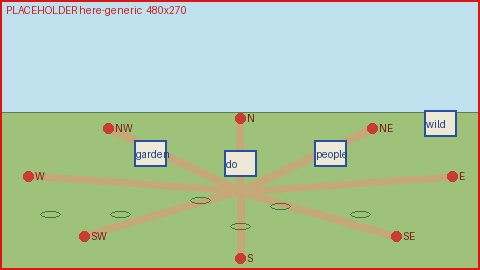
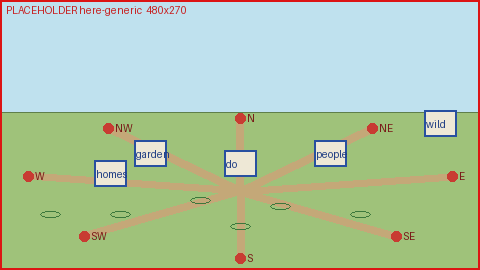
Homes spot on villages/plain places, tests, red-border placeholder pictures, todo

Changed region(s): [[0.1875, 0.5926, 0.2812, 0.7111]]

diff --git a/tests/here.php b/tests/here.php
@@ -45,6 +45,16 @@ if ($withDb && ($argv[2] ?? '') === 'cli') {   // (php tests/here.php GAME cli .
         }
     }
     if ($cmd === 'clearenc') { q("UPDATE expeditions SET encounter = NULL WHERE status = 'active' AND user_id = (SELECT id FROM users WHERE username = 'sprout')"); echo "ok\n"; }
+    if ($cmd === 'athome') {   // put the gnome where most villagers live; print "<npc id> <item id>"
+        $loc = (int)q_val("SELECT home_location_id FROM npcs WHERE active = 1 AND traveller IS NULL AND home_location_id IS NOT NULL GROUP BY home_location_id ORDER BY COUNT(*) DESC, home_location_id LIMIT 1");
+        $uidx = (int)q_val("SELECT id FROM users WHERE username = 'sprout'");
+        q("UPDATE expeditions SET status = 'done' WHERE user_id = ?", [$uidx]); q('UPDATE users SET location_id = ? WHERE id = ?', [$loc, $uidx]);
+        $nid = (int)q_val('SELECT id FROM npcs WHERE active = 1 AND traveller IS NULL AND home_location_id = ? ORDER BY id LIMIT 1', [$loc]);
+        $item = (int)q_val("SELECT id FROM items WHERE tradable = 1 AND category NOT IN ('tool','broken') ORDER BY id LIMIT 1");
+        require_once $game . '/includes/items.php'; give_item($uidx, $item, 2);
+        q('UPDATE npc_friends SET last_gift = NULL WHERE user_id = ?', [$uidx]);
+        echo "$nid $item\n";
+    }
     if ($cmd === 'active') { echo (int)q_val("SELECT COUNT(*) FROM expeditions WHERE status = 'active' AND user_id = (SELECT id FROM users WHERE username = 'sprout')") . "\n"; }
     if ($cmd === 'walk') {
         $u = q_one("SELECT * FROM users WHERE username = 'sprout'");
@@ -253,7 +263,7 @@ if ($withDb) {
     $out = hub_scene('generic', $hot, [], ['layout' => $L, 'alt' => 'x', 'open' => 'a']);
     ok('label is escaped', !str_contains($out, 'Door <b>') && str_contains($out, 'Door &lt;b&gt;'));
     ok('?o=<id> opens that card (no JS)', str_contains($out, 'id="hubpop-a"') && str_contains($out, 'hubpop-a" aria-labelledby="hubpop-a-t" open'));
-    $out2 = hub_scene('generic', $hot, [], ['layout' => $L, 'alt' => 'x']);
+    $out2 = hub_scene('zz-noart', $hot, [], ['layout' => $L, 'alt' => 'x']);
     ok('closed by default', !str_contains($out2, ' open>') && !str_contains($out2, 'aria-labelledby="hubpop-a-t" open'));
     ok('no art file: drawn sky and ground', str_contains($out2, 'class="sky"') && str_contains($out2, 'class="ground"'));
     $big = $L; $big['w'] = 960; $big['h'] = 540;
@@ -352,6 +362,46 @@ if ($withDb) {
     q("UPDATE expeditions SET status = 'done' WHERE user_id = ?", [$u['id']]);
     sset('gnav_tiles', '0'); sset('gnav_on', '0');
 
+    echo "== residential and door\n";
+    require_once $game . '/includes/residential.php';
+    $homeLoc = (int)q_val("SELECT home_location_id FROM npcs WHERE active = 1 AND traveller IS NULL AND home_location_id IS NOT NULL GROUP BY home_location_id ORDER BY COUNT(*) DESC, home_location_id LIMIT 1");
+    $homes = npcs_homed_at($homeLoc);
+    ok('the place with most villagers has homes', count($homes) >= 2, "loc $homeLoc");
+    ok('homes are in id order', array_column($homes, 'id') === (function ($a) { sort($a); return $a; })(array_column($homes, 'id')));
+    ok('travellers and inactive villagers have no house', !array_filter($homes, fn($n) => $n['traveller'] !== null || (int)$n['active'] !== 1));
+    $firstIds = array_column($homes, 'id');
+    q("DELETE FROM npcs WHERE slug = 'zz-newcomer'");
+    $newId = db_insert('npcs', ['slug' => 'zz-newcomer', 'name' => 'Zed Newcomer', 'species' => 'frog', 'personality' => 'Shy', 'home_location_id' => $homeLoc, 'active' => 1]);
+    $after = array_column(npcs_homed_at($homeLoc), 'id');
+    ok('a new villager takes the next slot, nobody else moves', array_slice($after, 0, count($firstIds)) === $firstIds && end($after) === $newId);
+    q('DELETE FROM npcs WHERE id = ?', [$newId]);
+    ok('templates: 3 houses -> 4-slot street, 6 -> 6, 7 -> 8, 30 -> 8 per page', resid_template(3) === ['resid-4', 4] && resid_template(6) === ['resid-6', 6] && resid_template(7) === ['resid-8', 8] && resid_template(30)[1] === 8);
+    $u = put($homeLoc);
+    [$rh, $pages] = resid_view($u, player_node($u), 1);
+    ok('the street renders one house per villager (page 1)', substr_count($rh, 'id="hs-h') === min(count($homes), resid_template(count($homes))[1]));
+    ok('an unmet villager shows no name on the street', !str_contains($rh, (string)$homes[0]['name']) || resid_met((int)$u['id'], (int)$homes[0]['id']));
+    $n1 = $homes[0];
+    ok('door_allowed: at the home place', door_allowed($u, $n1));
+    $other = (int)q_val("SELECT id FROM locations WHERE id <> ? ORDER BY id LIMIT 1", [$homeLoc]);
+    $uo = put($other);
+    ok('door_allowed: not from another place', !door_allowed($uo, $n1));
+    ok('gift at a door refused from elsewhere', npc_gift_door($uo, (int)$n1['id'], 1)[0] === false);
+    // lights: force home / away by schedule-free hours: an npc with no schedule rows is home all day
+    q('DELETE FROM npc_schedules WHERE npc_id = ?', [$n1['id']]);
+    $u = put($homeLoc);
+    ok('no plans = at home: window lit, Knock links to the visit', str_contains(door_view($u, $n1, 1), 'villagers.php?id=' . $n1['id'] . '&amp;home=1'));
+    q('INSERT INTO npc_schedules (npc_id, days, start_hour, end_hour, activity, location_id) VALUES (?, ?, 0, 0, ?, ?)', [$n1['id'], 'all', 'visiting', $homeLoc]);
+    $dv = door_view($u, $n1, 1, 'knock');
+    ok('out all day: dark window, Knock shows the message and no visit link', str_contains($dv, 'No light on') && !str_contains($dv, 'villagers.php?id=' . $n1['id'] . '&amp;home=1'), substr(strip_tags($dv), 0, 0));
+    q("UPDATE users SET coins = coins WHERE id = ?", [$u['id']]);
+    $item = (int)q_val("SELECT id FROM items WHERE tradable = 1 AND category NOT IN ('tool','broken') ORDER BY id LIMIT 1");
+    give_item((int)$u['id'], $item, 3);
+    q('DELETE FROM npc_friends WHERE user_id = ? AND npc_id = ?', [$u['id'], $n1['id']]);
+    [$g1, $gm1] = npc_gift_door($u, (int)$n1['id'], $item);
+    ok('a gift can be left at the door of an unmet, absent villager', $g1 && str_contains($gm1, 'door'), $gm1);
+    [$g2, $gm2] = npc_gift_door($u, (int)$n1['id'], $item);
+    ok('only once a day (shared with handed gifts)', !$g2, $gm2);
+    ok('friendship went up, but only by the door share', (int)q_val('SELECT points FROM npc_friends WHERE user_id = ? AND npc_id = ?', [$u['id'], $n1['id']]) > 0);
     echo "== flag helpers\n";
     ok('gnav_start_here is off with the flag off', !gnav_start_here(me()));
     sset('gnav_on', '1');

diff --git a/game/includes/here_view.php b/game/includes/here_view.php
@@ -17,6 +17,7 @@ require_once __DIR__ . '/maps.php';
 require_once __DIR__ . '/npc_life.php';
 require_once __DIR__ . '/items.php';
 require_once __DIR__ . '/place_ui.php';   // go_level_chip
+require_once __DIR__ . '/residential.php';   // npcs_homed_at
 
 /**
  * Energy to step onto a path from a place. THE one place that works this out: the Here exit chips show it, and for the timer walk it is
@@ -162,11 +163,12 @@ function here_spots(array $u, array $node, array $L, string $back, string $kind)
         }
         $add('shops', 'Shops', '🏪', url('town.php?view=shops'));
         // 'homes' (Residential) comes in a later release; the spot stays hidden until residential.php exists
-        if (is_file(APP_ROOT . '/residential.php')) $add('homes', 'Homes', '🏠', url('residential.php?loc=' . (int)$node['id']));
-    } elseif ($kind === 'village' || $kind === 'stop') {
+        if (is_file(APP_ROOT . '/residential.php') && npcs_homed_at((int)$node['id'])) $add('homes', 'Homes', '🏠', url('residential.php?loc=' . (int)$node['id']));
+    } elseif ($kind === 'village' || $kind === 'stop' || $kind === '') {   // '' = a plain place: the generic picture
         $add('do', 'Do here', '🎯', url('town.php'));
         $add('people', 'Villagers', '👥', url('town.php?t=folk'));
         $add('stop', 'Rest stop', '🪧', url('town.php?t=stop'));
+        if (is_file(APP_ROOT . '/residential.php') && npcs_homed_at((int)$node['id'])) $add('homes', 'Homes', '🏠', url('residential.php?loc=' . (int)$node['id']));
         if ((int)($u['home_village_id'] ?? 0) === (int)$node['id']) $add('garden', 'Your garden', '🌱', url('garden.php'));
     } elseif (in_array($kind, ['haven', 'wonder', 'delve', 'lair'], true)) {
         $lm = landmark_at((int)$node['id']);

diff --git a/claude/todo.md b/claude/todo.md
@@ -2,9 +2,9 @@
 
 ## NOW (nav A + 2d + editor, 2026-11-04): GRAPHICAL NAVIGATION. 2.5.01 zip (release A only) built and sent for testing; later work (2d Trail tiles, layout editor) is committed on branch `claude/new-session-c6u77m` but NOT in any zip yet. Next zip would be 2.5.02 (bump `APP_VERSION`, CHANGELOG, manifest, `tests/build_update.sh 2.5.02 2.5.01`).
 - **In 2.5.01 (release A, flag `gnav_on`, default 0):** Phases 0, 1, 2a, 2b, 2c. Here page `here.php` + `includes/here_view.php`, scene engine `includes/hub_scene.php` + `assets/hubscene.js`, layouts `includes/data/here_layouts.json` (12), `here_layout.php` helpers, `here_schema.php` (settings, `here_layouts`, `users.start_page`, `gnav_on()`), login/welcome-back to Here + Account "Start on", bottom bar/menu, World + Here Fast travel/GPS dialogs, `route_enter_cost()` (preview never rolls the staff die), `landmark.php` back to Here, `tools/gen_here_placeholders.py`, tests `tests/here.php` + `here.sh` (in CI list).
-- **Built after 2.5.01, not in a zip:** (1) 2d Trail tiles, flag `gnav_tiles` (needs `gnav_on`): `includes/trail_tiles.php`, hooks in `adventure.php` and `start_expedition` (1 energy to step on, free Continue, event rolled once with compare-and-swap, Turn back free, per-walk decision so a walk in progress keeps its mode). (2) Admin layout editor `admin/here_layout.php` + `assets/hereedit.js`, `tools/lint_here.php`. (3) `claude/art-brief-here.md`. (4) `hubscene.js` loads on every page when `gnav_on`. Tests cover all of it.
+- **Built after 2.5.01, not in a zip:** (0) Phase 3 Residential + Door: `residential.php`, `door.php`, `includes/residential.php` (`npcs_homed_at`, street pages of 4/6/8, lit/dark windows via `npc_now()['home']`, Knock only when home, `npc_gift_door()` = `npc_gift($u,$id,$item,true)`: no `npc_here`, half friendship, once a day shared with handed gifts); 'Homes' spot on Here when a place has homes; tests in `here.php`/`here.sh`. Red-bordered PLACEHOLDER pictures (17 PNGs: `scenes/here-*.png`, `resid-4/6/8.png`, `door-<homekey>.png` x6) from `tools/gen_here_placeholders.py` are in `game/assets/img/scenes`: replace each with real art of the same name and size (`php tools/lint_here.php` checks sizes), listed here so none ships by accident. (1) 2d Trail tiles, flag `gnav_tiles` (needs `gnav_on`): `includes/trail_tiles.php`, hooks in `adventure.php` and `start_expedition` (1 energy to step on, free Continue, event rolled once with compare-and-swap, Turn back free, per-walk decision so a walk in progress keeps its mode). (2) Admin layout editor `admin/here_layout.php` + `assets/hereedit.js`, `tools/lint_here.php`. (3) `claude/art-brief-here.md`. (4) `hubscene.js` loads on every page when `gnav_on`. Tests cover all of it.
 - **Tests:** `here` green. 32-suite regression ran with flags off and with both defaulted on: only `redirects`, `roads097`, `stops100` fail (same on the base commit) and `treks` is a random-threshold flake; with tiles defaulted on `roads097` also fails "arrival in 3 minutes" (expects timer walk, expected). Not run: MySQL, `upgrade_check.sh`, full CI, real phone.
-- **NOT BUILT, still to do:** Gather and Wander off the Trail while on a tile section (plan 2d-d; `explore_start` and the World page both refuse during a walk, needs a design); the in-between event as a `<dialog>` popover (today it is the existing encounter card on the page); HP/energy strip and slim footer from plan 2d-e; GPS hand-off to the next "Head into" popover (2d-f); `balance_sim.php` run for the energy change; Phase 3 Residential + Door (`residential.php`, `door.php`, `npc_gift_door()`; the 'homes' spot appears once `residential.php` exists); Phase 4 Crafting workshop; Phase 5 Treehouse / Pal Yard; Phase 6 leftovers: `admin/artguide.php` and `tests/build_guide*.py` catalogue entries, README Key systems, `DESIGN.md` (Here/door pictures); Phase 7 release mechanics.
+- **NOT BUILT, still to do:** Gather and Wander off the Trail while on a tile section (plan 2d-d; `explore_start` and the World page both refuse during a walk, needs a design); the in-between event as a `<dialog>` popover (today it is the existing encounter card on the page); HP/energy strip and slim footer from plan 2d-e; GPS hand-off to the next "Head into" popover (2d-f); `balance_sim.php` run for the energy change; Phase 4 Crafting workshop; Phase 5 Treehouse / Pal Yard; Phase 6 leftovers: `admin/artguide.php` and `tests/build_guide*.py` catalogue entries, README Key systems, `DESIGN.md` (Here/door pictures); Phase 7 release mechanics.
 - **Known risks / notes:** section maps come from a seed + `trail_map_make()`: changing that function changes walks in progress (leave it, or version the seed). Orphan `walk_scene` rows are purged on the next walk start. `tests/tour.sh` copy untouched (no step names Here). Plan file `claude/plan-graphical-nav.md` still says "not built, plan only": update its status line. No real art: engine draws a sky and ground when `scenes/here-<key>.png` is missing; 151 villager sprites do not exist (mini/bust/emoji fallback). MySQL path for `here_layouts` / `users.start_page` unchecked (`here_ensure_schema()` also adds the column on first Account save).
 - **Josh checks on the phone (412 px, light + dark):** `gnav_on` = 1: login lands on Here; tap each hotspot (card opens/closes with Esc, outside tap, ✕; a tap never spends anything); Set off from an exit card; haven Rest/Stay and wonder/delve cards come back to Here; Fast travel and GPS on Here and World; Account → Start on → Home; bottom bar Here; keyboard pass; no horizontal scroll. After the next zip, `gnav_tiles` = 1: step onto a Trail (1 energy), tap tiles, fight/find tokens, reach the door, Continue, Turn back, Head into; admin Picture layouts editor drag + Save + Reset.
 
